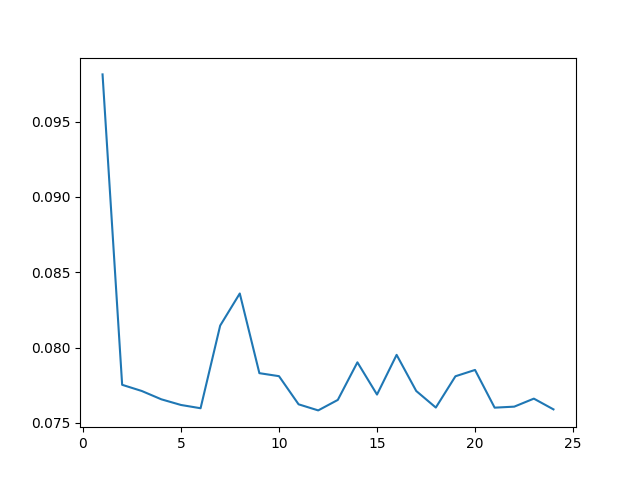
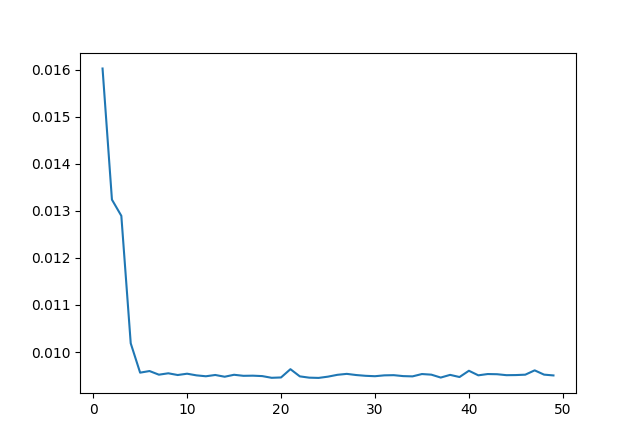
task4 with setcpu and new graph

diff --git a/task_4/b.c b/task_4/b.c
@@ -1,10 +1,13 @@
+#define _GNU_SOURCE
 #include <stdio.h>
 #include <stdlib.h>
 #include <math.h>
 #include <pthread.h>
 #include <math.h>
+#include <sched.h> 
+#include <unistd.h>
 
-#define N_POINTS 10000 // Общее количество точек для генерации
+#define N_POINTS 100000 // Общее количество точек для генерации
 #define N_THREADS 1// Число потоков
 
 double foo(double x) {
@@ -29,12 +32,22 @@ void *monte_carlo(void *param) {
 
 int main() {
     pthread_t threads[N_THREADS];
+    cpu_set_t cpuset;
+    pthread_attr_t attr;
+
     double counts[N_THREADS];
 
     srand(time(NULL));
 
+
     for (int i = 0; i < N_THREADS; i++) {
-        pthread_create(&threads[i], NULL, monte_carlo, (void *)&counts[i]);
+        CPU_ZERO(&cpuset);
+        CPU_SET((i%8), &cpuset);
+        int result = pthread_attr_setaffinity_np(&attr, sizeof(cpuset), &cpuset); 
+        if (result != 0) { 
+            perror("Error setting thread cpu core");
+        } 
+        pthread_create(&threads[i], &attr, monte_carlo, (void *)&counts[i]);
     }
 
     for (int i = 0; i < N_THREADS; i++) {
@@ -48,7 +61,7 @@ int main() {
 
     double integral = total_count / N_POINTS;
 
-    //printf("Значение интеграла: %f\n", integral);
+    // printf("Значение интеграла: %f\n", integral);
 
     return 0;
 }

diff --git a/task_4/graf.py b/task_4/graf.py
@@ -4,17 +4,18 @@ import matplotlib.pyplot as plt
 
 tm = []
 
-for i in range(1, 25):
+for i in range(1, 50):
+    print(i);
     tmp = []
     for j in range(20):
-        os.system(f"gcc a.c -DN_THREADS=i -w")
+        os.system(f"gcc b.c -DN_THREADS={i} -w -Ipthread.h")
         tic = datetime.datetime.now().timestamp()
         os.system(f"./a.out")
         tac = datetime.datetime.now().timestamp()
         tmp.append(tac - tic)
     tm.append(sum(tmp)/len(tmp))
 
-x = [i for i in range(1, 25)]
+x = [i for i in range(1, len(tm)+1)]
 plt.plot(x, tm, label = "зависимость времени исполнения от количества потоков");
 plt.show()
 os.system("rm a.out")
